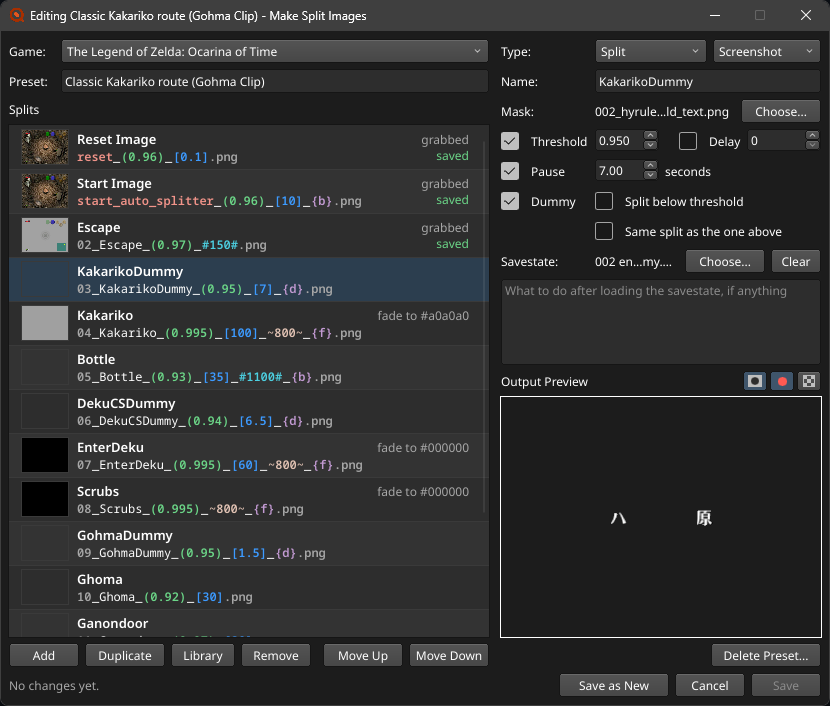
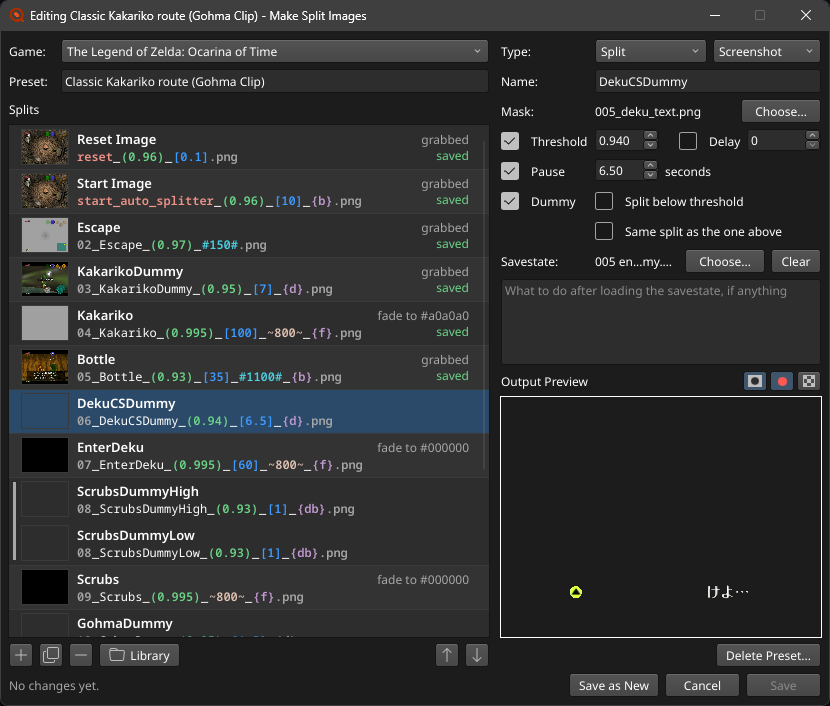
Update Make Split Images screenshots and add the Other tab's

diff --git a/MANUAL.md b/MANUAL.md
@@ -65,18 +65,26 @@ Help > View Log lists everything AutoSplit-rs did and why, like why it didn't sp
 
 File > Make Split Images makes split images from a preset: a category's splits, each with a mask that keeps only the part of the screen that tells the split apart, and the threshold, pause, delay and flags it needs. AutoSplit-rs comes with presets for some categories, and you can make your own, see [Editing presets](#editing-presets).
 
-![Make Split Images: the preset picker at the top, the splits with their file names on the left, and the capture region and the selected split's Output Preview on the right](docs/make-split-images.png)
+![Make Split Images: the game, preset and folder at the top left, the splits below them, and the capture region and the selected split's Output Preview on the right](docs/make-split-images.png)
 
-It opens beside the main window. While it's open, the main window only has the Help menu and Settings, so set the capture region first. The split images are saved into the profile's split image folder, which Browse... in this window changes.
+It opens beside the main window. While it's open, the main window only has the Help menu and Settings, so set the capture region first. The split images are saved into the profile's split image folder, which the folder button beside Folder changes.
 
-The list shows each split's name over its file name, colored by what each part of the name does, and what its image is made from. The file names use the profile's defaults for what the preset leaves out, and are numbered from 0, like Toufool's AutoSplit reads them.
+The list shows each split's name and picture, with saved once its split image is in the folder.
+
+With [Advanced Make Split Images](#other) on, the window shows more, for checking file names and editing presets:
+
+- The list shows each split's file name under its name, colored by what each part of the name does, and what its image is made from. The file names use the profile's defaults for what the preset leaves out, and are numbered from 0, like Toufool's AutoSplit reads them.
+- The folder is at the top right, with Browse....
+- Edit, New, Export, Test and Save Selected are there, see below.
+
+![Make Split Images with Advanced Make Split Images on: the splits with their file names on the left, and the split image folder above the capture region on the right](docs/make-split-images-advanced.png)
 
 ### Making the images
 
 - Grab saves the capture region for the selected split, with its mask, and selects the next split. The screenshot hotkey does the same while the window is open, so you can play through the category and press it at each split.
 - On a [fade split](#fade-images), the button reads Grab* and saves the split image from the split's color instead of the capture, then selects the next split. It works without a capture device. The Capture Region is replaced by a note that the split needs no savestate or screen.
-- Use Screenshots... uses screenshot files instead, like the ones Take Screenshot saves. Pick one for the selected split, or several for the splits in order, skipping fade splits. Then press Save Selected or Save All. It's off while a fade split is selected.
-- Test opens the selected split's saved image in the [Live Tester](#live-tester).
+- Use Screenshots... uses screenshot files instead, like the ones Take Screenshot saves. Pick one for the selected split, or several for the splits in order, skipping fade splits. Then press Save All, or with Advanced Make Split Images on, Save Selected for only the selected split. It's off while a fade split is selected.
+- With Advanced Make Split Images on, Test opens the selected split's saved image in the [Live Tester](#live-tester).
 
 Saving asks before replacing split images, and before leaving older images of the same splits under other names, like after a threshold changed. Delete Old Images removes those, Keep Old Images keeps them. Each split saved flashes green, with a check mark on its picture. The Output Preview shows the check mark too when the selected split is one of them. Screenshots that were in the split image folder move into its `base` folder, where they aren't read as split images.
 
@@ -105,7 +113,7 @@ A preset with something that needs fixing shows what in the bottom line, with th
 
 ## Editing presets
 
-The pencil button next to the preset edits it, and the page button starts a new preset for the same game. The window title shows which preset is being edited, with a `*` in front while it has unsaved changes.
+With [Advanced Make Split Images](#other) on, the pencil button next to the preset edits it, and the page button starts a new preset for the same game. With it off, Fix It is the only way in, when a preset has something to fix, and the window shows everything while editing. The window title shows which preset is being edited, with a `*` in front while it has unsaved changes.
 
 ![Make Split Images while editing a preset: the split list, the selected split's fields, and the Output Preview with its Mask, Live and grid buttons](docs/make-split-images-editing.png)
 
@@ -122,7 +130,7 @@ The pencil button next to the preset edits it, and the page button starts a new 
   - A grayed-out name can't be inserted, like a fifth reset image. When you pick it, a red line above the buttons says why.
   - The window stays open. Saving the preset copies the masks and savestates of inserted splits into it.
 
-  ![Split Library: the ready-made splits listed on the left, with where the preset has them already, and KokiriSwordLeft picked on the right, its two images each with a screenshot, settings and file name, above Insert Above and Insert Below](docs/split-library.png)
+  ![Split Library: the search field above the ready-made splits on the left, and EnterDeku picked on the right, its two images, DekuCSDummy and EnterDeku, each with a picture, settings and file name, above Insert Above and Insert Below](docs/split-library.png)
 
 - Grabs and screenshots stay with their splits while you change them. Grab itself is hidden while editing, since a split's file name and mask aren't settled until the preset is saved.
 
@@ -142,7 +150,9 @@ Each split has:
 
 Switching Compare to Fade ticks Threshold and sets it to 0.995, and switching back gives the split its old threshold, color and fade time again.
 
-![Make Split Images while editing a fade split: Compare set to Fade, the Color field with its swatch and Fade ms, the Mask with Clear, and the threshold at 0.995](docs/make-split-images-fade-editing.png)
+![Make Split Images while editing a fade split: Compare set to Fade, the Color field with its swatch and Fade ms, the Mask with Clear, the threshold at 0.995, and the Output Preview showing the live capture where the mask keeps it](docs/make-split-images-fade-editing.png)
+
+While editing a fade split, the Output Preview shows the part of the live capture that the fade is compared against, so you can see what the mask removes. The capture isn't used as the split's image, like a grab is for other splits. A fade split's image is always made from its color.
 
 The Output Preview has two more buttons while editing:
 
@@ -166,9 +176,9 @@ Splits with something to fix have a red name. The bottom line shows the first pr
 
 ## Sharing presets
 
-The two buttons after the pencil and page buttons, next to the preset, share presets as `.zip` files.
+The buttons next to the preset share presets as `.zip` files.
 
-- Export (the arrow up) saves the shown preset as a `.zip` file, named like `tlozoot_no_wrong_warp.zip`, with its masks and savestates. Send that file to share the preset.
+- Export (the arrow up), with [Advanced Make Split Images](#other) on, saves the shown preset as a `.zip` file, named like `tlozoot_no_wrong_warp.zip`, with its masks and savestates. Send that file to share the preset.
 - Import (the arrow down) adds the preset in a `.zip` file someone sent and shows it. If the game already has a preset with the same name, Import asks whether to replace that preset or keep both. Keeping both names the new one `Name (2)`.
 
 Import checks the file before it adds anything. It refuses a file whose preset uses a mask or savestate that isn't in it, a mask that isn't a PNG image, or a setting it doesn't know, which a preset from a newer version of AutoSplit-rs can have.
@@ -252,6 +262,9 @@ With LiveSplit or LiveSplit One controlling the timer, only the screenshot and t
 | --- | --- |
 | Timer | Any timer (hotkeys), LiveSplit One (WebSocket), or Molok (POSIX signals, Linux only). See [Timers](#timers). |
 | LiveSplit One port | The port LiveSplit One connects to, 16835 by default. A typed port is used once you press Enter or leave the box. |
+| Advanced Make Split Images | Off by default. Shows the split image file names, what each image is made from, and the Edit, New, Export, Test and Save Selected buttons in [Make Split Images](#make-split-images). Off, it shows only what making split images needs. |
+
+![The Other tab with the timer connection, the LiveSplit One port and Advanced Make Split Images](docs/settings-other.png)
 
 ## Split image file names
 

diff --git a/TUTORIAL.md b/TUTORIAL.md
@@ -89,11 +89,11 @@ The capture region is what gets compared with your split images, so set it befor
 
 AutoSplit-rs comes with presets for some categories: a list of the category's splits, each with a mask that keeps only the part of the screen that tells the split apart, and the settings it needs. Make Split Images turns your capture into split images with them.
 
-![Make Split Images: the preset picker at the top, the splits with their file names on the left, and the capture region and the selected split's Output Preview on the right](docs/make-split-images.png)
+![Make Split Images: the game, preset and folder at the top left, the splits below them, and the capture region and the selected split's Output Preview on the right](docs/make-split-images.png)
 
 1. Open File > Make Split Images. It opens beside the main window.
 2. Pick your game and category's preset at the top.
-3. Click Browse... and pick an empty folder for the split images, like a new folder named after your category.
+3. Click the folder button beside Folder and pick an empty folder for the split images, like a new folder named after your category.
 4. Click Generate Profile..., save the profile, and choose Load It. This saves your settings, with that folder, as a profile for this category.
 5. Set a screenshot hotkey in File > Settings > Hotkeys, if you don't have one. Pick a key you can press while playing.
 6. Get to each split's screen. If Copy Savestates can be clicked, your preset has savestates: load them as in [Savestates](#savestates) below instead of playing. Otherwise, play through the category. At each split, when the screen looks like the split's moment, press the screenshot hotkey, or click Grab. The Output Preview shows what the image will look like before you grab. A grab saves the image of the split that's selected, and right away selects the next split, so the selected split is always the one you grab next. The split you just grabbed flashes green with a check mark on its picture.
@@ -186,7 +186,7 @@ Help > View Log says what AutoSplit-rs did and why, like why it didn't split. St
 
 **It never splits.** Watch the similarity viewer during the split: Live has to reach Threshold.
 - Far below: the capture changed since the image was made. Check the capture region, OBS's crop and color filters, and the capture card's settings, then grab the image again.
-- Just below: lower that split's threshold a little. For a preset's split, change it with the pencil button next to the preset in Make Split Images, save the preset and save the image again. Otherwise, change it in the image's file name, like `(0.88)`.
+- Just below: lower that split's threshold a little. For a preset's split, turn on Advanced Make Split Images in File > Settings > Other, change it with the pencil button next to the preset in Make Split Images, save the preset and save the image again. Otherwise, change it in the image's file name, like `(0.88)`.
 
 **It splits too early.** Another screen looks similar enough. Raise that split's threshold, the same way, or give the split before it a longer pause, so it isn't compared during the similar screen. [MANUAL.md](MANUAL.md#split-image-file-names) lists every file name option.
 
